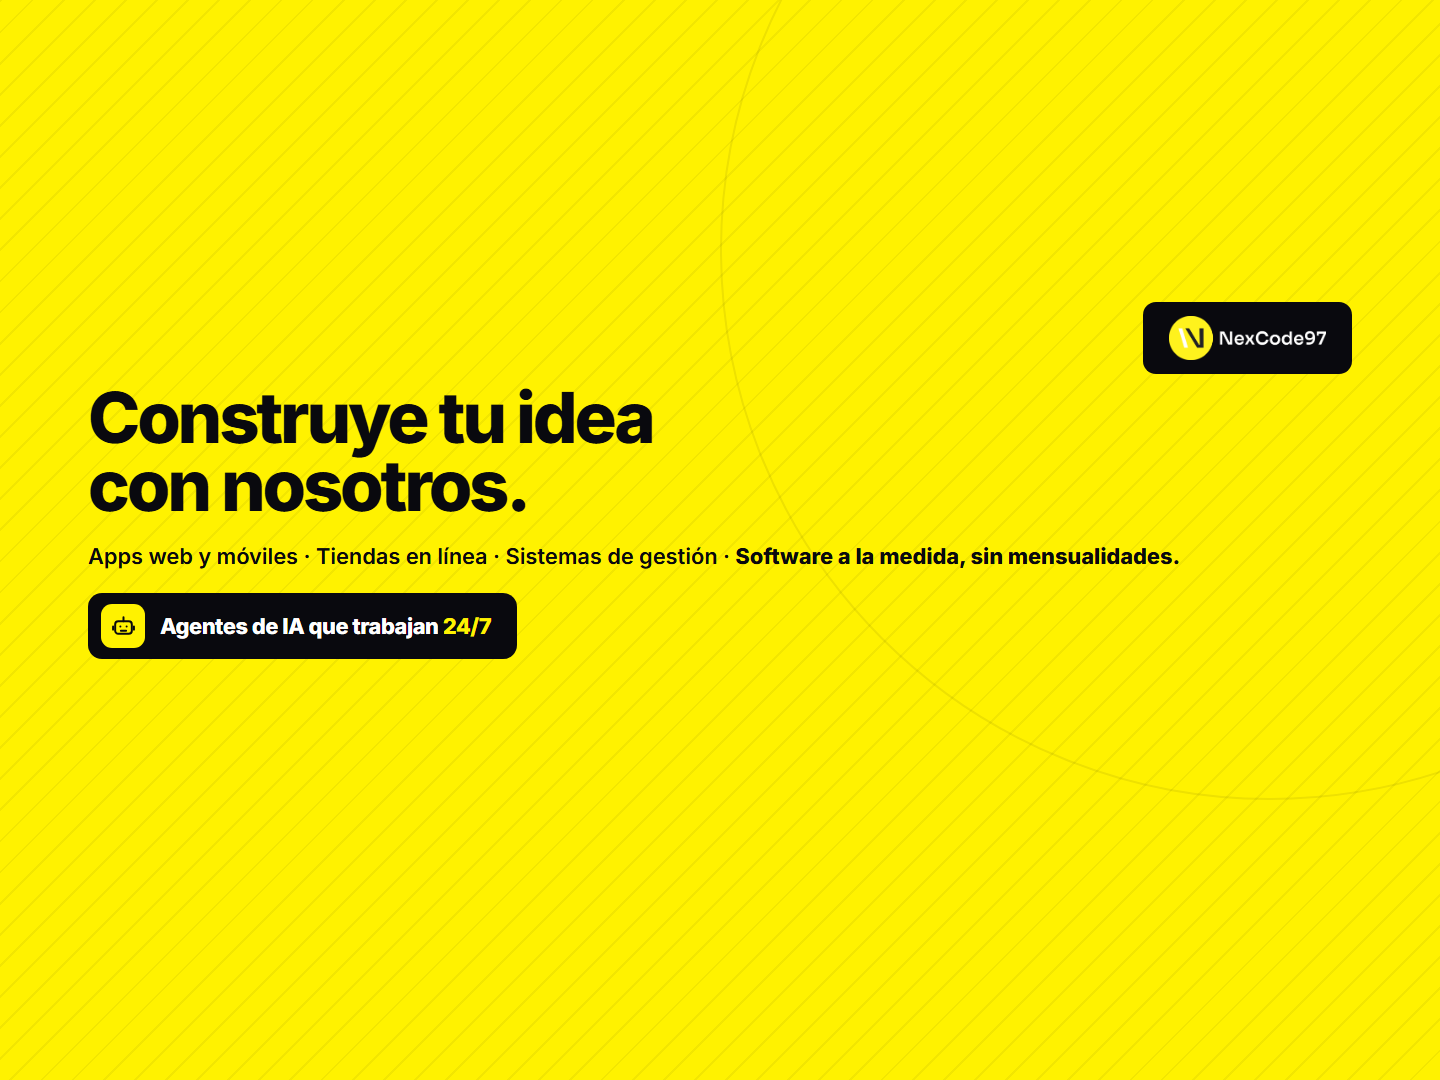
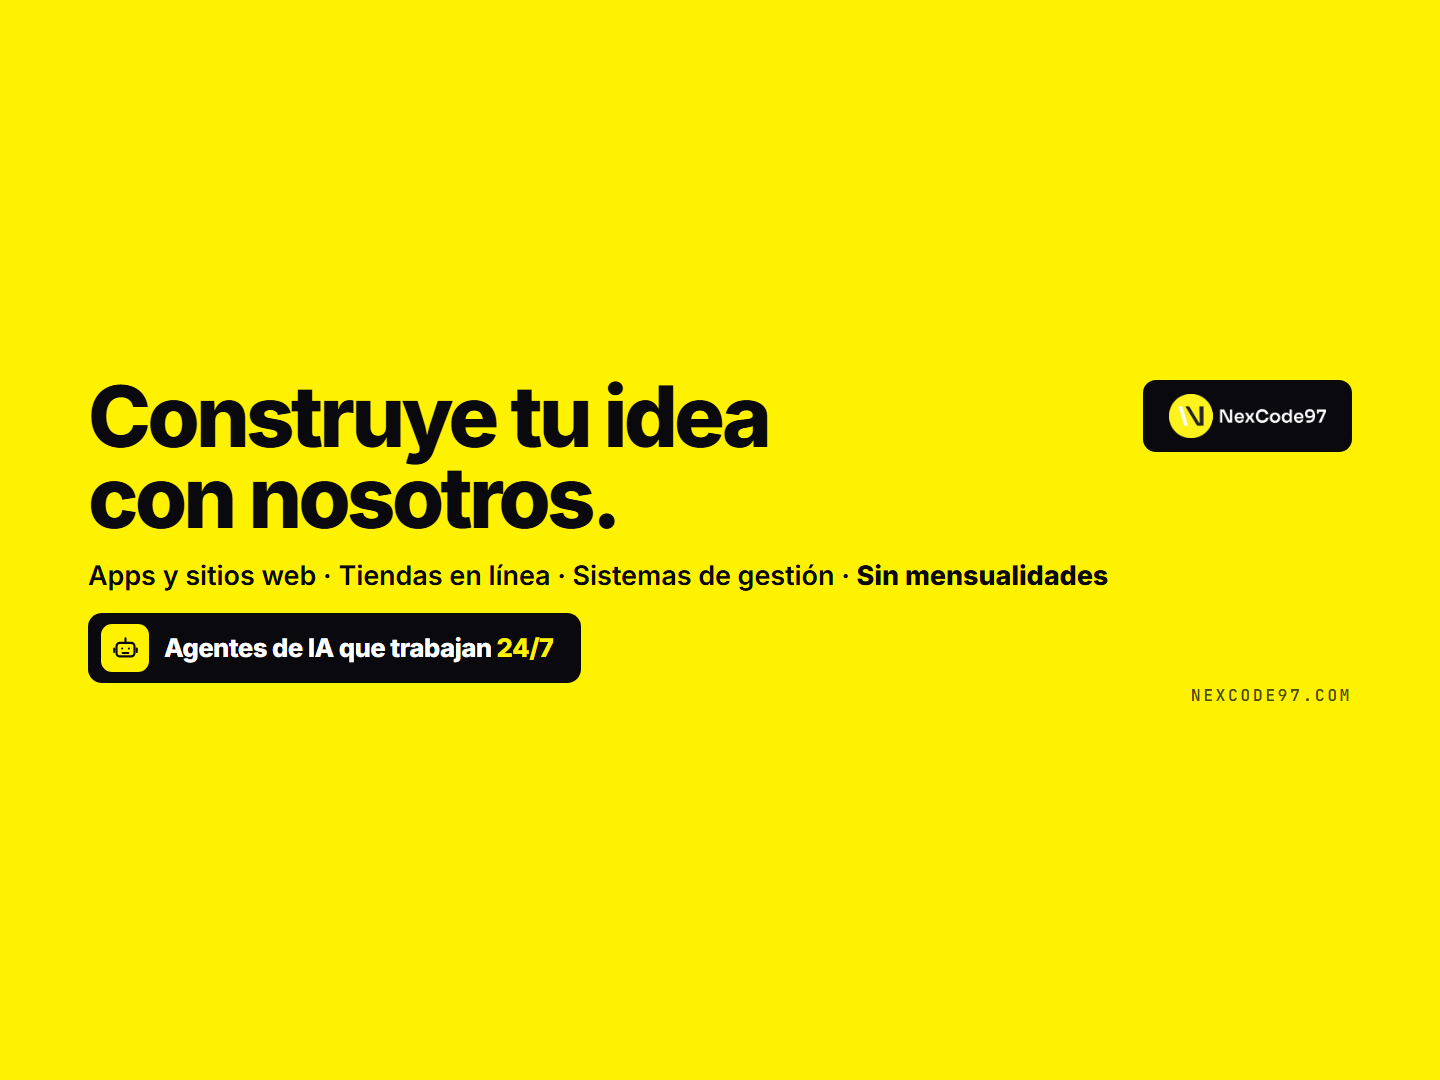
feat(publicidad): nueva pieza de NexCode97 y sin velo oscuro en las tarjetas
Se reemplaza la imagen de NexCode97 por la version que entrego el anunciante,
en publicidad/ y en la copia que sirve la web. Sigue en 1440x1080.

Se quita el degradado oscuro que cubria el 32% inferior de cada anuncio, en
las dos versiones del carrusel. Estaba para sostener el boton de contacto y
los puntos, pero le tapaba parte de la pieza al anunciante, que es lo que el
paga por mostrar.

La etiqueta de la esquina superior no se ve afectada: tiene fondo oscuro
propio. El boton de contacto y los puntos quedan apoyados solo en su propio
vidrio, asi que sobre una pieza de fondo muy claro pueden perder contraste.

Changed region(s): [[0.0625, 0.3361, 0.8125, 0.6417], [0.7812, 0.275, 0.9375, 0.4278], [0.8438, 0.6417, 0.875, 0.6722]]

diff --git a/web/components/ui/slideshow.tsx b/web/components/ui/slideshow.tsx
@@ -102,12 +102,6 @@ function SlideCard({ slide, priority }: { slide: SlideshowSlide; priority?: bool
         loading={priority ? 'eager' : 'lazy'}
         decoding={priority ? 'sync' : 'async'}
       />
-      {/* Velo corto y solo abajo: sin título ni descripción, únicamente tiene que
-          sostener el botón y los puntos sobre piezas de fondo claro. */}
-      <div
-        className="absolute inset-x-0 bottom-0"
-        style={{ height: '32%', background: 'linear-gradient(to top, rgba(10,5,20,0.62) 0%, transparent 100%)' }}
-      />
       {slide.label && (
         <div
           className="absolute top-3 left-3 flex items-center"
@@ -213,10 +207,6 @@ export function Slideshow({ slides, autoPlayMs = 5000 }: SlideshowProps) {
           >
             {/* eslint-disable-next-line @next/next/no-img-element */}
             <img src={mobileSlide.img} alt={mobileSlide.title} className="w-full h-full object-cover" loading="eager" />
-            <div
-              className="absolute inset-x-0 bottom-0"
-              style={{ height: '32%', background: 'linear-gradient(to top, rgba(10,5,20,0.62) 0%, transparent 100%)' }}
-            />
             {mobileSlide.label && (
               <div
                 className="absolute top-3 left-3 flex items-center"
